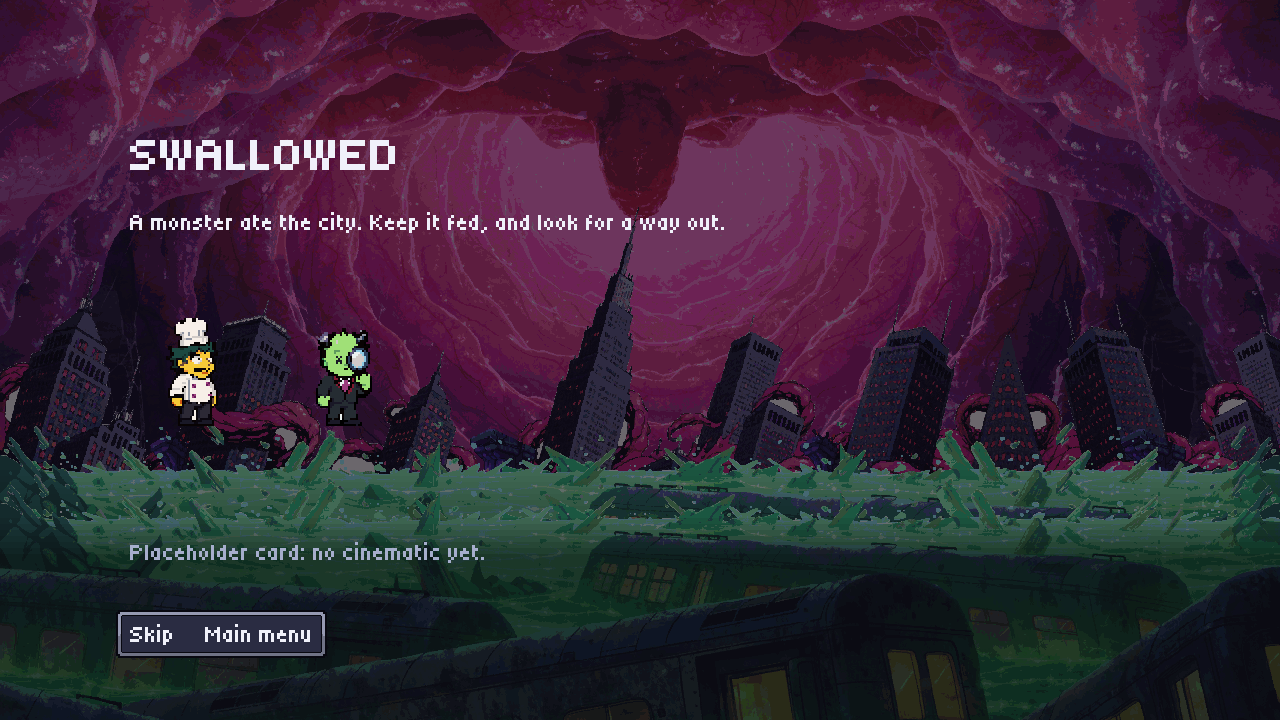
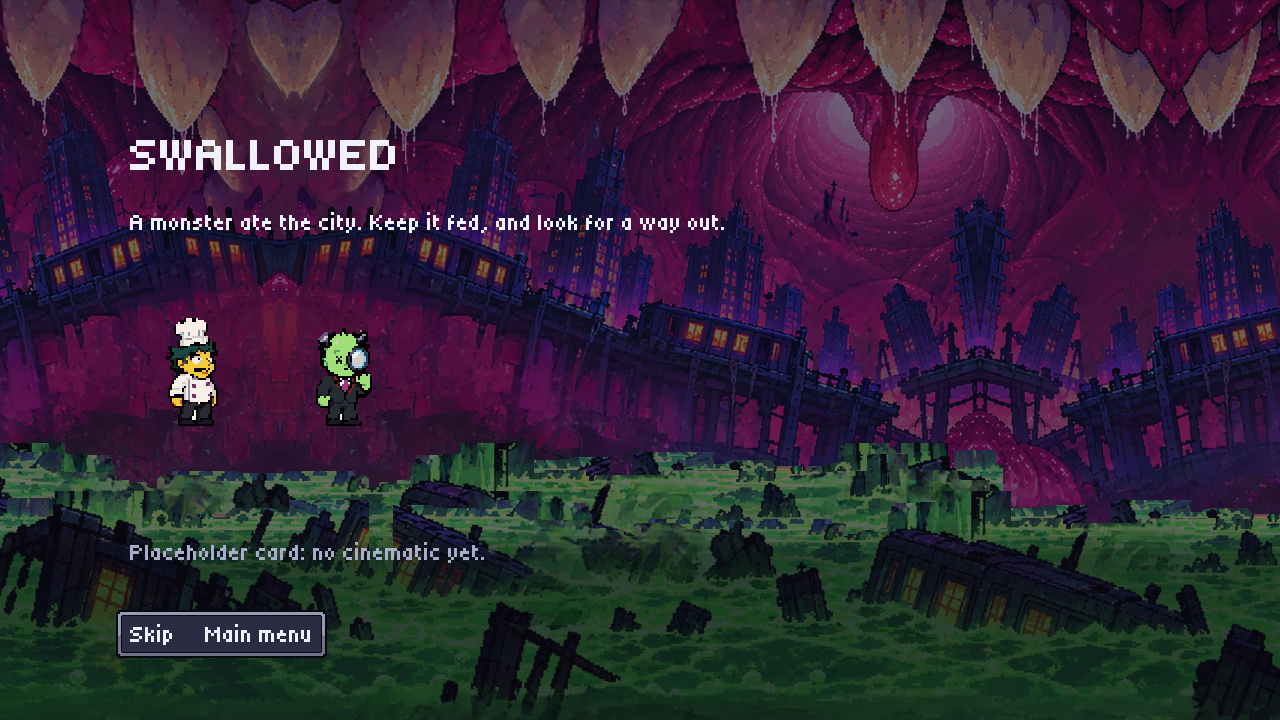
docs: retake the evidence beside the search mockup

diff --git a/docs/art/README.md b/docs/art/README.md
@@ -6,7 +6,7 @@ The current visual direction of the monster-mouth escape game, source images, an
 
 The current game is the monster-mouth escape game of [parent #21](https://github.com/garamsh/neocity/issues/21): a monster swallows a city, and a yellow chef and a green appraiser gather ingredients, feed it, and look for a way out. The [game baseline](../design/monster-mouth-escape.md) holds its decisions. The concept images #21 cites, kept in the [concept archive](https://github.com/garamsh/neocity/tree/241124d5ba2dcef937c904623f1e5e3cb03fbcf5/docs/art/concept-art/monster-mouth-escape), are its visual target, and #21 states that their drawn UI, numbers, keys, and layout are not requirements. No final art for this game is approved.
 
-The production art set of [#90](https://github.com/garamsh/neocity/issues/90) follows that target. It lives in `project/levels/monster_mouth_escape/art/`, whose [manifest](../../project/levels/monster_mouth_escape/art/manifest.json) lists every file and its colour count, and the game draws the world, the characters, the kitchen, the HUD's hearts and top-band icons, the item icons and the title screen from it. Since [#119](https://github.com/garamsh/neocity/issues/119) the interface follows the concept's HUD: dark pixel panels with a thick light rim, drawn in code on whole pixels and kept to the screen's corners, set in the Tiny5 pixel font of the [font provenance](production/monster-mouth-escape-font-provenance.txt), drawn on its own grid without smoothing as the [glyph sheet](production/monster-mouth-escape-font-glyphs.png) shows, with the set's hearts and corner icons; [#107](https://github.com/garamsh/neocity/issues/107) had made them flat shapes, and [#110](https://github.com/garamsh/neocity/issues/110) removed the set's `ui/` panel, bar, slot and button frames, which nothing drew. #110 also draws the side-view walkways as decks on trusses and supports, with snapped ends, ramps and stairs, gives each character walking, running, jumping, falling, landing and climbing frames, and holds the set to the clean-art rules of the [art folder](../../project/levels/monster_mouth_escape/art/README.md#clean-art-rules), which `tools/art/pixelize.py check` measures. [#98](https://github.com/garamsh/neocity/issues/98) adds ground tiles for broken roads and the decorations of a swallowed city to it. [#141](https://github.com/garamsh/neocity/issues/141) makes every run of walkway a thick violet stone deck and cuts the stairs from the deck. [#151](https://github.com/garamsh/neocity/issues/151) removes the buildings #141 sank under the walkways, stands the decks on supports, and sets the screen's values in the concept's three layers: dark walkways with warm lit edges in front, a bright magenta throat without haze over the distant city, and the acid band glowing along the bottom of the play area. [#144](https://github.com/garamsh/neocity/issues/144) sets it moving and glowing on the pixel grid: the acid heaves under a rim of foam, a web of light crawls over it near its surface, bubbles burst into foam and its green light falls in bands on what stands over it, bright parts spill light in dithered steps, the throat breathes and drips, and steam and spores drift, as the [comparison](../architecture/evidence/survival/144-concept-before-after.png) and the [motion strip](../architecture/evidence/survival/144-motion.png) show. [#153](https://github.com/garamsh/neocity/issues/153) draws the shop, the street stall and the vending machine as lit structures standing on the walkways, cuts the high walkways' supports short onto braces and girders, and hangs the monster's cream upper teeth along the top of the screen, in front of the backdrop and behind the walkways, as the [comparison](../architecture/evidence/survival/153-concept-before-after.png) shows. [#168](https://github.com/garamsh/neocity/issues/168) takes the fangs out of the throat, so the teeth hang in one row, and draws the upper teeth fang by fang in an order and at drops that vary along the row, as the [comparison](../architecture/evidence/survival/168-concept-before-after.png) shows. [#186](https://github.com/garamsh/neocity/issues/186) starts drawing every picture at the concept's density, one picture pixel to a screen pixel at the default camera, as [ADR 0017](../architecture/adr/0017-draw-every-picture-one-pixel-to-a-screen-pixel-at-the-close-camera.md) decides, and, as [ADR 0018](../architecture/adr/0018-cut-the-backdrop-from-the-search-mockup.md) decides after the user rejected redrawn layers, cuts the throat, its fangs, the city and the acid lake from the search mockup with its own pixels, as the [comparison](../architecture/evidence/survival/186-concept-before-after.png) and the [close-up](../architecture/evidence/survival/186-closeup-4x.png) show; later stages redraw the walkways and props, the characters, and the icons and interface. It awaits the creative decision-maker. The [review sheet](production/monster-mouth-escape-review-v4.png) is a record of version 4 of the set, which later versions did not redraw: it puts that version beside the three concepts and composes a street of walkways from it.
+The production art set of [#90](https://github.com/garamsh/neocity/issues/90) follows that target. It lives in `project/levels/monster_mouth_escape/art/`, whose [manifest](../../project/levels/monster_mouth_escape/art/manifest.json) lists every file and its colour count, and the game draws the world, the characters, the kitchen, the HUD's hearts and top-band icons, the item icons and the title screen from it. Since [#119](https://github.com/garamsh/neocity/issues/119) the interface follows the concept's HUD: dark pixel panels with a thick light rim, drawn in code on whole pixels and kept to the screen's corners, set in the Tiny5 pixel font of the [font provenance](production/monster-mouth-escape-font-provenance.txt), drawn on its own grid without smoothing as the [glyph sheet](production/monster-mouth-escape-font-glyphs.png) shows, with the set's hearts and corner icons; [#107](https://github.com/garamsh/neocity/issues/107) had made them flat shapes, and [#110](https://github.com/garamsh/neocity/issues/110) removed the set's `ui/` panel, bar, slot and button frames, which nothing drew. #110 also draws the side-view walkways as decks on trusses and supports, with snapped ends, ramps and stairs, gives each character walking, running, jumping, falling, landing and climbing frames, and holds the set to the clean-art rules of the [art folder](../../project/levels/monster_mouth_escape/art/README.md#clean-art-rules), which `tools/art/pixelize.py check` measures. [#98](https://github.com/garamsh/neocity/issues/98) adds ground tiles for broken roads and the decorations of a swallowed city to it. [#141](https://github.com/garamsh/neocity/issues/141) makes every run of walkway a thick violet stone deck and cuts the stairs from the deck. [#151](https://github.com/garamsh/neocity/issues/151) removes the buildings #141 sank under the walkways, stands the decks on supports, and sets the screen's values in the concept's three layers: dark walkways with warm lit edges in front, a bright magenta throat without haze over the distant city, and the acid band glowing along the bottom of the play area. [#144](https://github.com/garamsh/neocity/issues/144) sets it moving and glowing on the pixel grid: the acid heaves under a rim of foam, a web of light crawls over it near its surface, bubbles burst into foam and its green light falls in bands on what stands over it, bright parts spill light in dithered steps, the throat breathes and drips, and steam and spores drift, as the [comparison](../architecture/evidence/survival/144-concept-before-after.png) and the [motion strip](../architecture/evidence/survival/144-motion.png) show. [#153](https://github.com/garamsh/neocity/issues/153) draws the shop, the street stall and the vending machine as lit structures standing on the walkways, cuts the high walkways' supports short onto braces and girders, and hangs the monster's cream upper teeth along the top of the screen, in front of the backdrop and behind the walkways, as the [comparison](../architecture/evidence/survival/153-concept-before-after.png) shows. [#168](https://github.com/garamsh/neocity/issues/168) takes the fangs out of the throat, so the teeth hang in one row, and draws the upper teeth fang by fang in an order and at drops that vary along the row, as the [comparison](../architecture/evidence/survival/168-concept-before-after.png) shows. [#186](https://github.com/garamsh/neocity/issues/186) starts drawing every picture at the concept's density, one picture pixel to a screen pixel at the default camera, as [ADR 0017](../architecture/adr/0017-draw-every-picture-one-pixel-to-a-screen-pixel-at-the-close-camera.md) decides, and, as [ADR 0018](../architecture/adr/0018-cut-the-backdrop-from-the-search-mockup.md) decides after the user rejected redrawn layers, cuts the throat, its fangs, the city and the acid lake from the search mockup with its own pixels, as the [mockup beside the first city screen](../architecture/evidence/survival/186-mockup-beside-city.png) and the [close-up](../architecture/evidence/survival/186-closeup-4x.png) show; later stages redraw the walkways and props, the characters, and the icons and interface. It awaits the creative decision-maker. The [review sheet](production/monster-mouth-escape-review-v4.png) is a record of version 4 of the set, which later versions did not redraw: it puts that version beside the three concepts and composes a street of walkways from it.
 
 | Topic | Set |
 |---|---|
